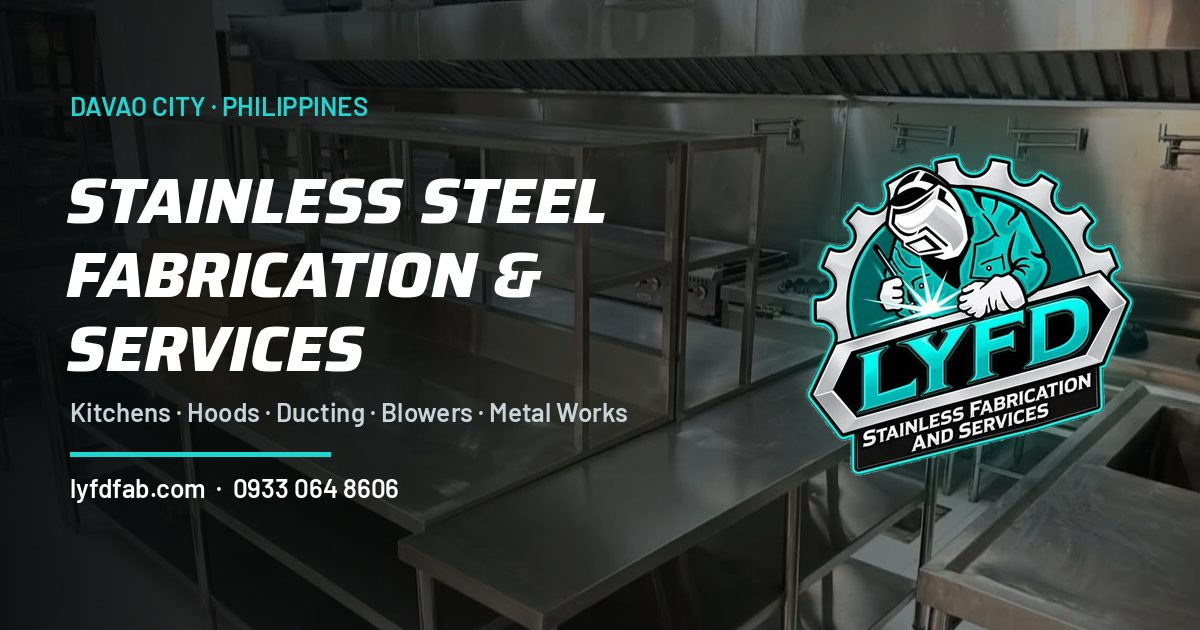
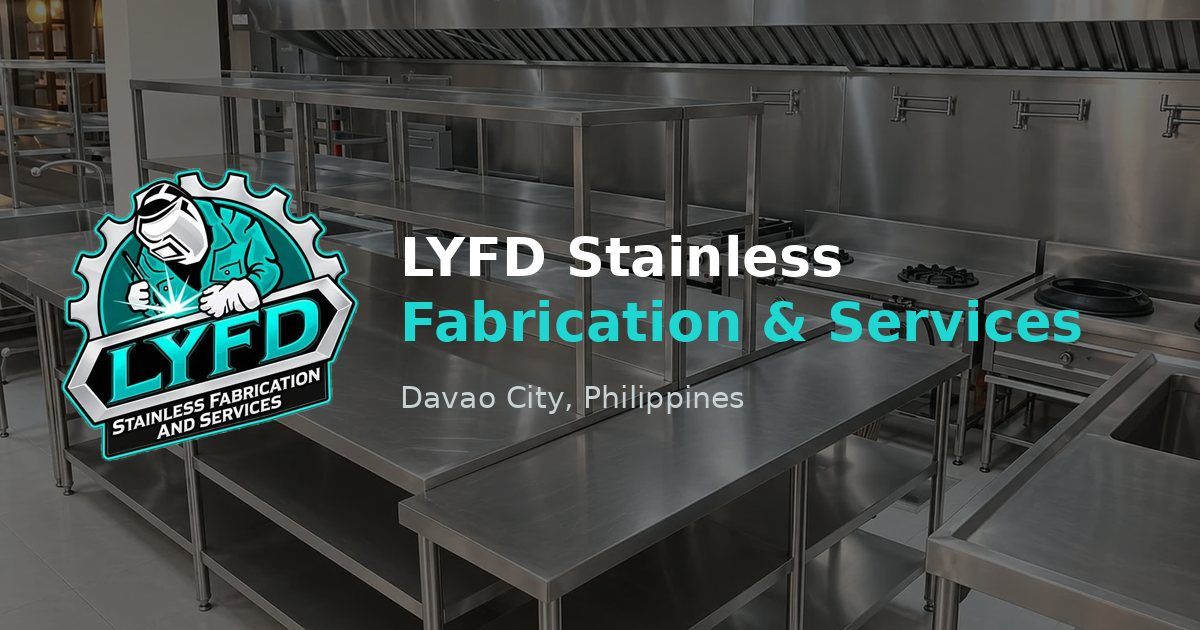
Content refresh: new Facebook photos and reels, company profile text, address
- Replace all old photos with the client's new project photos (album + posts)
- Swap reels for the newest from the Facebook page, new posters
- Add profile copy (since 2010, QA/QC, core values, services) into existing sections
- Add street address (Km. 3 Bugac, Ma-a, Davao City 8000) and foundingDate to SEO
- Layout unchanged

diff --git a/patterns/products-gallery.php b/patterns/products-gallery.php
@@ -3,25 +3,19 @@
  * Title: LYFD Product Gallery (filterable)
  * Slug: lyfd-luxe/products-gallery
  * Categories: lyfd-luxe
- * Description: Filterable photo gallery with lightbox. Category = the lyfd-cat-* class (kitchens, counters, cooking, blowers); is-wide / is-tall make a card span 2 columns / 2 rows.
+ * Description: Filterable photo gallery with lightbox. Category = the lyfd-cat-* class (kitchens, counters, cooking, blowers = Hoods & Exhaust); is-wide / is-tall make a card span 2 columns / 2 rows.
  */
 $items = array(
-	array( 'commercial-kitchen.webp', 'kitchens', 'Full Kitchens', 'Complete Stainless Kitchen', 'Complete stainless steel commercial kitchen with work tables, cooking stations and exhaust hood', 'is-wide is-tall' ),
-	array( 'sink-counter-backsplash.webp', 'counters', 'Counters & Sinks', 'Sink Counter with Backsplash', 'Stainless steel sink counter with backsplash and cabinet', '' ),
-	array( 'double-sink-counter.webp', 'counters', 'Counters & Sinks', 'Double-Sink Counter', 'Stainless steel double-sink counter with cabinets', 'is-wide' ),
-	array( 'rooftop-ducting-blower.webp', 'blowers', 'Blowers & Ducting', 'Rooftop Ducting & Blower', 'Red ducting and green blower installed on a rooftop', 'is-tall' ),
-	array( 'wall-mounted-blower-ducting.webp', 'blowers', 'Blowers & Ducting', 'Wall-Mounted Blower', 'Wall-mounted green blower with black ducting', '' ),
-	array( 'rooftop-exhaust-ducting.webp', 'blowers', 'Blowers & Ducting', 'Rooftop Exhaust Ducting', 'Galvanized exhaust ducting and green blower on a rooftop', 'is-tall' ),
-	array( 'rooftop-blower-installation.webp', 'blowers', 'Blowers & Ducting', 'Rooftop Blower Installation', 'Green blower with ducting installed on a building roof', 'is-tall' ),
-	array( 'balcony-blower-unit.webp', 'blowers', 'Blowers & Ducting', 'Balcony Blower Unit', 'Green belt-driven blower unit mounted on a balcony frame', 'is-tall' ),
-	array( 'two-burner-stove.webp', 'cooking', 'Cooking Stations', 'Two-Burner Stove Station', 'Stainless steel two-burner stove station', 'is-tall' ),
-	array( 'blowers-on-delivery-truck.webp', 'blowers', 'Blowers & Ducting', 'Blowers Ready for Delivery', 'Three green centrifugal blowers loaded on a delivery truck', 'is-wide' ),
-	array( 'corner-cabinets-sink.webp', 'kitchens', 'Full Kitchens', 'Corner Cabinets & Sink', 'Stainless steel corner cabinets with sink and wall cabinets', '' ),
-	array( 'kitchen-griddle-hood.webp', 'kitchens', 'Full Kitchens', 'Kitchen with Griddle & Hood', 'Stainless steel kitchen with griddle station, backsplash and hood', '' ),
-	array( 'three-burner-counter.webp', 'cooking', 'Cooking Stations', 'Three-Burner Counter', 'Stainless steel three-burner cooking counter', '' ),
-	array( 'counter-with-drawers.webp', 'counters', 'Counters & Sinks', 'Counter with Drawers', 'Stainless steel counter with drawers and cabinets', 'is-wide' ),
-	array( 'green-centrifugal-blowers.webp', 'blowers', 'Blowers & Ducting', 'Centrifugal Blowers', 'Green centrifugal blowers with blue motors', '' ),
-	array( 'kitchen-cabinets-window.webp', 'kitchens', 'Full Kitchens', 'Cabinet & Counter Run', 'Stainless steel cabinets and counter run beside a window', 'is-wide' ),
+	array( 'kitchen-island-hood-line.webp', 'kitchens', 'Full Kitchens', 'Kitchen Island with Hood Line', 'Stainless steel kitchen island with shelf and exhaust hood line', 'is-wide is-tall' ),
+	array( 'hood-grill-station.webp', 'cooking', 'Cooking Stations', 'Grill Station with Hood', 'Stainless steel grill station under an exhaust hood', '' ),
+	array( 'steel-shelving-racks.webp', 'kitchens', 'Full Kitchens', 'Stainless Shelving Racks', 'Stainless steel wall shelving racks in a new kitchen', '' ),
+	array( 'triple-sink-table.webp', 'counters', 'Counters & Sinks', 'Triple-Sink Work Table', 'Stainless steel triple-sink work table with shelving', 'is-wide' ),
+	array( 'full-kitchen-hall.webp', 'kitchens', 'Full Kitchens', 'Complete Kitchen Fit-Out', 'Complete stainless steel commercial kitchen fit-out', 'is-wide' ),
+	array( 'counter-heat-lamps.webp', 'counters', 'Counters & Sinks', 'Counter with Heat Lamps', 'Stainless steel food-service counter with heat lamps', '' ),
+	array( 'three-burner-wok-range.webp', 'cooking', 'Cooking Stations', 'Three-Burner Wok Range', 'Heavy-duty stainless steel three-burner wok range', '' ),
+	array( 'hood-wok-line.webp', 'blowers', 'Hoods & Exhaust', 'Hood & Wok Cooking Line', 'Stainless steel exhaust hood above a wok cooking line', 'is-wide' ),
+	array( 'shelving-racks-wide.webp', 'kitchens', 'Full Kitchens', 'Stainless Storage Racks', 'Stainless steel storage racks', '' ),
+	array( 'long-work-tables-sinks.webp', 'counters', 'Counters & Sinks', 'Long Work Tables & Sinks', 'Long stainless steel work tables with sinks', '' ),
 );
 ?>
 <!-- wp:group {"tagName":"section","anchor":"gallery","align":"full","className":"lyfd-section lyfd-gallery-section","layout":{"type":"default"}} -->
@@ -42,7 +36,7 @@ $items = array(
 	<button type="button" class="lyfd-filter" data-filter="kitchens">Full Kitchens</button>
 	<button type="button" class="lyfd-filter" data-filter="counters">Counters &amp; Sinks</button>
 	<button type="button" class="lyfd-filter" data-filter="cooking">Cooking Stations</button>
-	<button type="button" class="lyfd-filter" data-filter="blowers">Blowers &amp; Ducting</button>
+	<button type="button" class="lyfd-filter" data-filter="blowers">Hoods &amp; Exhaust</button>
 </div>
 <!-- /wp:html -->
 

diff --git a/patterns/home-featured.php b/patterns/home-featured.php
@@ -30,23 +30,23 @@ $products = esc_url( home_url( '/products/' ) );
 <!-- wp:group {"className":"lyfd-feature-row lyfd-stagger","layout":{"type":"default"}} -->
 <div class="wp-block-group lyfd-feature-row lyfd-stagger"><!-- wp:group {"className":"lyfd-product lyfd-tilt lyfd-reveal","layout":{"type":"default"}} -->
 <div class="wp-block-group lyfd-product lyfd-tilt lyfd-reveal"><!-- wp:image {"sizeSlug":"large","linkDestination":"custom"} -->
-<figure class="wp-block-image size-large"><a href="<?php echo $products; ?>"><img src="<?php echo lyfd_img( 'corner-cabinets-sink.webp' ); ?>" alt="Stainless steel corner cabinets with sink"/></a></figure>
+<figure class="wp-block-image size-large"><a href="<?php echo $products; ?>"><img src="<?php echo lyfd_img( 'triple-sink-table.webp' ); ?>" alt="Stainless steel triple-sink work table"/></a></figure>
 <!-- /wp:image -->
 
 <!-- wp:group {"className":"lyfd-product__meta","layout":{"type":"default"}} -->
 <div class="wp-block-group lyfd-product__meta"><!-- wp:paragraph {"className":"lyfd-product__tag"} -->
-<p class="lyfd-product__tag">Full Kitchens</p>
+<p class="lyfd-product__tag">Counters &amp; Sinks</p>
 <!-- /wp:paragraph -->
 
 <!-- wp:heading {"level":3,"className":"lyfd-product__title"} -->
-<h3 class="wp-block-heading lyfd-product__title">Corner Cabinets &amp; Sink</h3>
+<h3 class="wp-block-heading lyfd-product__title">Triple-Sink Work Table</h3>
 <!-- /wp:heading --></div>
 <!-- /wp:group --></div>
 <!-- /wp:group -->
 
 <!-- wp:group {"className":"lyfd-product lyfd-tilt lyfd-reveal","layout":{"type":"default"}} -->
 <div class="wp-block-group lyfd-product lyfd-tilt lyfd-reveal"><!-- wp:image {"sizeSlug":"large","linkDestination":"custom"} -->
-<figure class="wp-block-image size-large"><a href="<?php echo $products; ?>"><img src="<?php echo lyfd_img( 'three-burner-counter.webp' ); ?>" alt="Stainless steel three-burner cooking counter"/></a></figure>
+<figure class="wp-block-image size-large"><a href="<?php echo $products; ?>"><img src="<?php echo lyfd_img( 'three-burner-wok-range.webp' ); ?>" alt="Heavy-duty stainless steel three-burner wok range"/></a></figure>
 <!-- /wp:image -->
 
 <!-- wp:group {"className":"lyfd-product__meta","layout":{"type":"default"}} -->
@@ -55,23 +55,23 @@ $products = esc_url( home_url( '/products/' ) );
 <!-- /wp:paragraph -->
 
 <!-- wp:heading {"level":3,"className":"lyfd-product__title"} -->
-<h3 class="wp-block-heading lyfd-product__title">Three-Burner Counter</h3>
+<h3 class="wp-block-heading lyfd-product__title">Three-Burner Wok Range</h3>
 <!-- /wp:heading --></div>
 <!-- /wp:group --></div>
 <!-- /wp:group -->
 
 <!-- wp:group {"className":"lyfd-product lyfd-tilt lyfd-reveal","layout":{"type":"default"}} -->
 <div class="wp-block-group lyfd-product lyfd-tilt lyfd-reveal"><!-- wp:image {"sizeSlug":"large","linkDestination":"custom"} -->
-<figure class="wp-block-image size-large"><a href="<?php echo $products; ?>"><img src="<?php echo lyfd_img( 'green-centrifugal-blowers.webp' ); ?>" alt="Green centrifugal blowers fabricated by LYFD"/></a></figure>
+<figure class="wp-block-image size-large"><a href="<?php echo $products; ?>"><img src="<?php echo lyfd_img( 'hood-wok-line.webp' ); ?>" alt="Stainless steel exhaust hood above a wok cooking line"/></a></figure>
 <!-- /wp:image -->
 
 <!-- wp:group {"className":"lyfd-product__meta","layout":{"type":"default"}} -->
 <div class="wp-block-group lyfd-product__meta"><!-- wp:paragraph {"className":"lyfd-product__tag"} -->
-<p class="lyfd-product__tag">Blowers &amp; Ducting</p>
+<p class="lyfd-product__tag">Hoods &amp; Exhaust</p>
 <!-- /wp:paragraph -->
 
 <!-- wp:heading {"level":3,"className":"lyfd-product__title"} -->
-<h3 class="wp-block-heading lyfd-product__title">Centrifugal Blowers</h3>
+<h3 class="wp-block-heading lyfd-product__title">Hood &amp; Wok Cooking Line</h3>
 <!-- /wp:heading --></div>
 <!-- /wp:group --></div>
 <!-- /wp:group --></div>

diff --git a/patterns/home-about.php b/patterns/home-about.php
@@ -7,11 +7,11 @@
  */
 // Slider photos: [file, tag, title, alt]. Add/remove slides by duplicating a slide group in the editor.
 $slides = array(
-	array( 'kitchen-griddle-hood.webp',       'Full Kitchens',    'Kitchen with Griddle & Hood', 'Stainless steel kitchen with griddle station, backsplash and hood fabricated by LYFD' ),
-	array( 'double-sink-counter.webp',        'Counters & Sinks', 'Double-Sink Counter',         'Stainless steel double-sink counter with cabinets' ),
-	array( 'three-burner-counter.webp',       'Cooking Stations', 'Three-Burner Counter',        'Stainless steel three-burner cooking counter' ),
-	array( 'wall-mounted-blower-ducting.webp','Blowers & Ducting','Wall-Mounted Blower',         'Wall-mounted green blower with black ducting' ),
-	array( 'blowers-on-delivery-truck.webp',  'Blowers & Ducting','Blowers Ready for Delivery',  'Three green centrifugal blowers loaded on a delivery truck' ),
+	array( 'full-kitchen-hall.webp',          'Full Kitchens',    'Complete Kitchen Fit-Out',     'Complete stainless steel commercial kitchen fit-out fabricated by LYFD' ),
+	array( 'triple-sink-table.webp',          'Counters & Sinks', 'Triple-Sink Work Table',       'Stainless steel triple-sink work table with shelving' ),
+	array( 'three-burner-wok-range.webp',     'Cooking Stations', 'Three-Burner Wok Range',       'Heavy-duty stainless steel three-burner wok range' ),
+	array( 'hood-wok-line.webp',              'Hoods & Exhaust',  'Hood & Wok Cooking Line',      'Stainless steel exhaust hood above a wok cooking line' ),
+	array( 'counter-heat-lamps.webp',         'Counters & Sinks', 'Counter with Heat Lamps',      'Stainless steel food-service counter with heat lamps' ),
 );
 ?>
 <!-- wp:group {"tagName":"section","anchor":"about","align":"full","className":"lyfd-section lyfd-about","layout":{"type":"default"}} -->
@@ -54,11 +54,15 @@ $slides = array(
 <!-- /wp:heading -->
 
 <!-- wp:paragraph {"className":"lyfd-lead lyfd-reveal"} -->
-<p class="lyfd-lead lyfd-reveal">LYFD Stainless Fabrication and Services is a Davao City workshop specializing in custom stainless steel fabrication &mdash; from commercial kitchen hoods, ducting systems and blowers to counters, cooking stations and bespoke metal works.</p>
+<p class="lyfd-lead lyfd-reveal">Registered in April 2010, LYFD Stainless Fabrication and Services is a Davao City manufacturer of stainless steel food counters and kitchen equipment for hotels, restaurants, hospitals, industrial establishments and home use &mdash; from commercial kitchen hoods, ducting systems and blowers to counters, cooking stations and bespoke metal works.</p>
 <!-- /wp:paragraph -->
 
 <!-- wp:paragraph {"className":"lyfd-reveal"} -->
-<p class="lyfd-reveal">We work with restaurants, hotels, commissaries and homeowners to turn a floor plan into a working, easy-to-clean, built-to-last space. Every piece is measured to your layout, welded and finished by skilled fabricators, then delivered and installed on site.</p>
+<p class="lyfd-reveal">We work with restaurants, hotels, commissaries and homeowners to turn a floor plan into a working, easy-to-clean, built-to-last space. Every piece is measured to your layout, welded and finished by skilled fabricators, then delivered and installed on site. Our service covers system design, site survey and estimates, cost analysis and turnkey projects, with strict quality assurance and quality control &mdash; and a commitment to a proudly Philippine-made product.</p>
+<!-- /wp:paragraph -->
+
+<!-- wp:paragraph {"className":"lyfd-reveal"} -->
+<p class="lyfd-reveal"><strong>Our core values:</strong> Philosophy, Excellence, Integrity, Team Work, Loyalty and Concern for People.</p>
 <!-- /wp:paragraph --></div>
 <!-- /wp:column --></div>
 <!-- /wp:columns -->

diff --git a/patterns/home-capabilities.php b/patterns/home-capabilities.php
@@ -29,7 +29,7 @@
 <!-- /wp:heading -->
 
 <!-- wp:paragraph {"className":"lyfd-card__text"} -->
-<p class="lyfd-card__text">Prep tables, serving counters and overhead shelving sized exactly to your kitchen line.</p>
+<p class="lyfd-card__text">Prep tables, food-service counters, cashier&rsquo;s drawers and overhead shelving sized exactly to your kitchen line.</p>
 <!-- /wp:paragraph --></div>
 <!-- /wp:group -->
 
@@ -43,7 +43,7 @@
 <!-- /wp:heading -->
 
 <!-- wp:paragraph {"className":"lyfd-card__text"} -->
-<p class="lyfd-card__text">Commercial exhaust hoods engineered for strong extraction and a seamless stainless finish.</p>
+<p class="lyfd-card__text">Commercial exhaust hoods and ventilation engineered for strong extraction and a seamless stainless finish.</p>
 <!-- /wp:paragraph --></div>
 <!-- /wp:group -->
 
@@ -57,7 +57,7 @@
 <!-- /wp:heading -->
 
 <!-- wp:paragraph {"className":"lyfd-card__text"} -->
-<p class="lyfd-card__text">Fabricated ducting and custom centrifugal blowers, routed and installed on site.</p>
+<p class="lyfd-card__text">Fabricated ducting, exhaust and ventilation systems and custom centrifugal blowers, routed and installed on site.</p>
 <!-- /wp:paragraph --></div>
 <!-- /wp:group -->
 
@@ -71,7 +71,7 @@
 <!-- /wp:heading -->
 
 <!-- wp:paragraph {"className":"lyfd-card__text"} -->
-<p class="lyfd-card__text">Burner stands, wok stations and backsplashes built tough for high-heat daily service.</p>
+<p class="lyfd-card__text">Burner stands, wok stations and backsplashes for restaurant, bakery, hospital and industrial kitchens, built tough for high-heat daily service.</p>
 <!-- /wp:paragraph --></div>
 <!-- /wp:group -->
 
@@ -85,7 +85,7 @@
 <!-- /wp:heading -->
 
 <!-- wp:paragraph {"className":"lyfd-card__text"} -->
-<p class="lyfd-card__text">Hygienic wash stations, cabinets and under-shelf storage that keep a kitchen organised.</p>
+<p class="lyfd-card__text">Hygienic wash stations, cabinets and storage racks for hotels, restaurants, hospitals, supermarkets, malls and homes.</p>
 <!-- /wp:paragraph --></div>
 <!-- /wp:group -->
 
@@ -99,7 +99,7 @@
 <!-- /wp:heading -->
 
 <!-- wp:paragraph {"className":"lyfd-card__text"} -->
-<p class="lyfd-card__text">Custom welding and metal works for any project that needs strength and a premium finish.</p>
+<p class="lyfd-card__text">Steel fabrication and installation &mdash; trusses, industrial tanks, cladding and signages, architectural railings, steel frames and gates.</p>
 <!-- /wp:paragraph --></div>
 <!-- /wp:group --></div>
 <!-- /wp:group --></div>

diff --git a/patterns/footer.php b/patterns/footer.php
@@ -89,7 +89,7 @@ $msg      = esc_url( lyfd_messenger_url() );
 <!-- /wp:list-item -->
 
 <!-- wp:list-item -->
-<li><a href="<?php echo esc_url( $products . '#blowers' ); ?>">Blowers &amp; Ducting</a></li>
+<li><a href="<?php echo esc_url( $products . '#blowers' ); ?>">Hoods &amp; Exhaust</a></li>
 <!-- /wp:list-item -->
 
 <!-- wp:list-item -->
@@ -105,7 +105,7 @@ $msg      = esc_url( lyfd_messenger_url() );
 
 <!-- wp:html -->
 <ul class="lyfd-reach">
-	<li><div class="lyfd-reach__row"><span class="lyfd-ico"><svg viewBox="0 0 24 24" aria-hidden="true"><path d="M12 21s7-6.2 7-11a7 7 0 1 0-14 0c0 4.8 7 11 7 11z"/><circle cx="12" cy="10" r="2.5"/></svg></span><span><small>Workshop</small>Davao City, Philippines</span></div></li>
+	<li><div class="lyfd-reach__row"><span class="lyfd-ico"><svg viewBox="0 0 24 24" aria-hidden="true"><path d="M12 21s7-6.2 7-11a7 7 0 1 0-14 0c0 4.8 7 11 7 11z"/><circle cx="12" cy="10" r="2.5"/></svg></span><span><small>Workshop</small>Km. 3 Bugac, Ma-a, Davao City 8000</span></div></li>
 	<li><a href="tel:+639330648606"><span class="lyfd-ico"><svg viewBox="0 0 24 24" aria-hidden="true"><path d="M5 4h4l2 5-2.5 1.5a11 11 0 0 0 5 5L15 13l5 2v4a2 2 0 0 1-2 2A16 16 0 0 1 3 6a2 2 0 0 1 2-2z"/></svg></span><span><small>Call / text</small>0933 064 8606</span></a></li>
 	<li><a href="mailto:info@lyfdfab.com"><span class="lyfd-ico"><svg viewBox="0 0 24 24" aria-hidden="true"><rect x="3" y="5" width="18" height="14" rx="2"/><path d="m3 7 9 6 9-6"/></svg></span><span><small>Email</small>info@lyfdfab.com</span></a></li>
 	<li><a href="mailto:lyfd.fabrication@gmail.com"><span class="lyfd-ico"><svg viewBox="0 0 24 24" aria-hidden="true"><rect x="3" y="5" width="18" height="14" rx="2"/><path d="m3 7 9 6 9-6"/></svg></span><span><small>Email (Gmail)</small>lyfd.fabrication@gmail.com</span></a></li>

diff --git a/patterns/home-hero.php b/patterns/home-hero.php
@@ -10,7 +10,7 @@ $contact  = esc_url( home_url( '/#contact' ) );
 ?>
 <!-- wp:group {"tagName":"section","align":"full","className":"lyfd-hero","layout":{"type":"default"}} -->
 <section class="wp-block-group alignfull lyfd-hero"><!-- wp:image {"sizeSlug":"full","linkDestination":"none","className":"lyfd-hero__bg"} -->
-<figure class="wp-block-image size-full lyfd-hero__bg"><img src="<?php echo lyfd_img( 'commercial-kitchen.webp' ); ?>" alt="Stainless steel commercial kitchen fabricated by LYFD"/></figure>
+<figure class="wp-block-image size-full lyfd-hero__bg"><img src="<?php echo lyfd_img( 'kitchen-island-hood-line.webp' ); ?>" alt="Stainless steel commercial kitchen fabricated by LYFD"/></figure>
 <!-- /wp:image -->
 
 <!-- wp:group {"className":"lyfd-hero__inner","layout":{"type":"default"}} -->
@@ -24,7 +24,7 @@ $contact  = esc_url( home_url( '/#contact' ) );
 <!-- /wp:heading -->
 
 <!-- wp:paragraph {"className":"lyfd-hero__lead"} -->
-<p class="lyfd-hero__lead">Custom-fabricated kitchens, hoods, ducting, blowers and metal works &mdash; measured, welded, polished and installed with uncompromising precision.</p>
+<p class="lyfd-hero__lead">Custom-fabricated kitchens, hoods, ducting, blowers and metal works &mdash; measured, welded, polished and installed with uncompromising precision. Serving Davao since 2010.</p>
 <!-- /wp:paragraph -->
 
 <!-- wp:buttons {"className":"lyfd-hero__actions"} -->

diff --git a/inc/seo.php b/inc/seo.php
@@ -30,7 +30,7 @@ function lyfd_seo_defaults() {
 		'phone'         => '+63 933 064 8606',
 		'email'         => 'info@lyfdfab.com',
 		'email2'        => 'lyfd.fabrication@gmail.com',
-		'street'        => '',
+		'street'        => 'Km. 3 Bugac, Ma-a',
 		'city'          => 'Davao City',
 		'region'        => 'Davao del Sur',
 		'postal'        => '8000',
@@ -308,7 +308,8 @@ add_action(
 					array( '@type' => 'Country', 'name' => 'Philippines' ),
 				),
 				'sameAs'      => array_values( array_filter( array( $s['facebook'] ) ) ),
-				'knowsAbout'  => array( 'Stainless steel fabrication', 'Commercial kitchen equipment', 'Kitchen exhaust hoods', 'Ducting systems', 'Centrifugal blowers', 'Welding', 'Metal works' ),
+				'foundingDate' => '2010-04-13',
+				'knowsAbout'  => array( 'Stainless steel fabrication', 'Food service counters', 'Architectural railings', 'Commercial kitchen equipment', 'Kitchen exhaust hoods', 'Ducting systems', 'Centrifugal blowers', 'Welding', 'Metal works' ),
 				'hasOfferCatalog' => array(
 					'@type'           => 'OfferCatalog',
 					'name'            => 'Stainless fabrication services',

diff --git a/patterns/products-reels.php b/patterns/products-reels.php
@@ -6,11 +6,11 @@
  * Description: Click-to-play Facebook reels. The Facebook player only loads after a click (faster page, no tracking until then). To add a reel: copy a card, then change the reel URL in the HTML block and the poster image.
  */
 $reels = array(
-	array( '1416817723946368', 'reel-1.webp', 'Reel 01' ),
-	array( '1898022618235899', 'reel-2.webp', 'Reel 02' ),
-	array( '1431586745805838', 'reel-3.webp', 'Reel 03' ),
-	array( '1147742731115859', 'reel-4.webp', 'Reel 04' ),
-	array( '4194695164154407', 'reel-4.webp', 'Reel 05' ),
+	array( '1450446596636319', 'reel-wok-flame.webp', 'Heavy-Duty Wok Range' ),
+	array( '1118431334123480', 'reel-custom-fabrication.webp', 'Custom Stainless Fabrication' ),
+	array( '29036316936019920', 'reel-turning-ideas.webp', 'Turning Ideas into Reality' ),
+	array( '1416817723946368', 'reel-water-tanker.webp', 'Heavy-Duty Water Tanker' ),
+	array( '1898022618235899', 'reel-display-counter.webp', 'Display Counter Delivered' ),
 );
 ?>
 <!-- wp:group {"tagName":"section","anchor":"videos","align":"full","className":"lyfd-section lyfd-videos","layout":{"type":"default"}} -->

diff --git a/patterns/home-approach.php b/patterns/home-approach.php
@@ -43,7 +43,7 @@
 <!-- /wp:heading -->
 
 <!-- wp:paragraph {"className":"lyfd-card__text"} -->
-<p class="lyfd-card__text">You receive a clear layout and a transparent quotation before any steel is cut.</p>
+<p class="lyfd-card__text">You receive a clear layout, survey, cost analysis and a transparent quotation before any steel is cut.</p>
 <!-- /wp:paragraph --></div>
 <!-- /wp:group -->
 
@@ -57,7 +57,7 @@
 <!-- /wp:heading -->
 
 <!-- wp:paragraph {"className":"lyfd-card__text"} -->
-<p class="lyfd-card__text">Precision cutting, welding and polishing, checked at every stage.</p>
+<p class="lyfd-card__text">Precision cutting, welding and polishing, with strict QA/QC at every stage.</p>
 <!-- /wp:paragraph --></div>
 <!-- /wp:group -->
 

diff --git a/inc/floating.php b/inc/floating.php
@@ -57,7 +57,7 @@ add_action(
 			<div class="lyfd-promo__scrim" data-promo-close></div>
 			<div class="lyfd-promo__card">
 				<button type="button" class="lyfd-promo__close" data-promo-close aria-label="Close">&times;</button>
-				<div class="lyfd-promo__media"><img src="<?php echo lyfd_img( 'green-centrifugal-blowers.webp' ); ?>" alt="" width="1282" height="920" loading="lazy" decoding="async"></div>
+				<div class="lyfd-promo__media"><img src="<?php echo lyfd_img( 'hood-grill-station.webp' ); ?>" alt="" width="1103" height="803" loading="lazy" decoding="async"></div>
 				<div class="lyfd-promo__body">
 					<p class="lyfd-eyebrow">Our Products</p>
 					<h2 class="lyfd-promo__title" id="lyfd-promo-title">See what we fabricate</h2>

diff --git a/patterns/products-hero.php b/patterns/products-hero.php
@@ -9,7 +9,7 @@ $gallery = esc_url( '#gallery' );
 ?>
 <!-- wp:group {"tagName":"section","align":"full","className":"lyfd-page-hero","layout":{"type":"default"}} -->
 <section class="wp-block-group alignfull lyfd-page-hero"><!-- wp:image {"sizeSlug":"full","linkDestination":"none","className":"lyfd-page-hero__bg"} -->
-<figure class="wp-block-image size-full lyfd-page-hero__bg"><img src="<?php echo lyfd_img( 'blowers-on-delivery-truck.webp' ); ?>" alt=""/></figure>
+<figure class="wp-block-image size-full lyfd-page-hero__bg"><img src="<?php echo lyfd_img( 'hood-wok-line.webp' ); ?>" alt=""/></figure>
 <!-- /wp:image -->
 
 <!-- wp:group {"className":"lyfd-wrap lyfd-page-hero__inner","layout":{"type":"default"}} -->

diff --git a/patterns/home-contact.php b/patterns/home-contact.php
@@ -40,7 +40,7 @@ $fb = esc_url( 'https://www.facebook.com/profile.php?id=61595745041102' );
 <!-- /wp:paragraph -->
 
 <!-- wp:paragraph {"className":"lyfd-contact__value"} -->
-<p class="lyfd-contact__value">Davao City, Philippines</p>
+<p class="lyfd-contact__value">Km. 3 Bugac, Ma-a,<br>Davao City 8000</p>
 <!-- /wp:paragraph --></div>
 <!-- /wp:group -->
 
